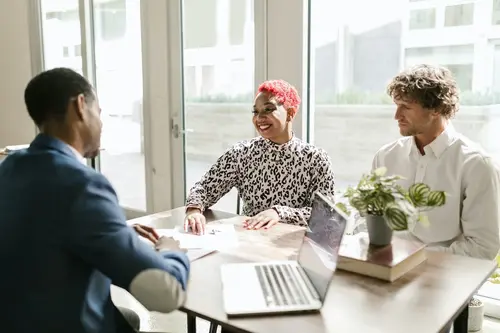
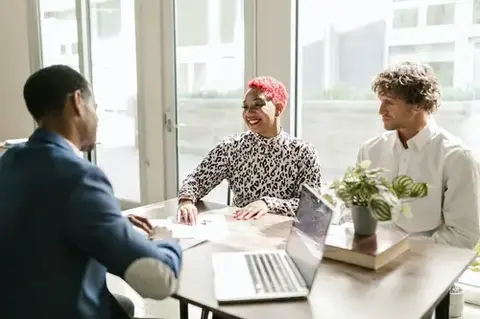
added overlaytext js

Changed region(s): [[0.375, 0.4514, 0.6562, 0.6207]]

diff --git a/chamber/index.html b/chamber/index.html
@@ -26,10 +26,11 @@
       <div id="content">
           <div class="hero">
             <picture>
-                <source media="(max-width: 500px)" srcset="/lesson06/images/wdd230-org-small.webp">
-                <source media="(max-width: 1000px)" srcset="/lesson06/images/wdd230-org-medium.webp">
-                <img src="/lesson06/images/wdd230-org-large.webp" alt="coworkers meeting" width="1500" height="1000">   
+                <source media="(max-width: 480px)" srcset="/lesson06/images/wdd230-org-small.webp">
+                <source media="(max-width: 800px)" srcset="/lesson06/images/wdd230-org-medium.webp">
+                <img src="/lesson06/images/wdd230-org-large.webp" alt="coworkers meeting" width="1200" height="800" class="responsive-image"> 
             </picture>
+            <div class="overlay-text">Large</div>
            </div>
         </div>
         <nav id="navbar"  class="navbar">
@@ -93,6 +94,7 @@
   <script src="..//scripts/hamburger.js"></script>
   <script src="..//scripts/darkmode.js"></script>
   <script src="..//scripts/windchill.js"></script>
+  <script src="..//scripts/overlaytext.js"></script>
 <footer>
     <p>Delilia Werner</p>
     <p>This is a project for WDD230 Frontend Web Development</p>

diff --git a/scripts/overlaytext.js b/scripts/overlaytext.js
@@ -1,0 +1,15 @@
+const overlayText = document.querySelector('.overlay-text');
+        const image = document.querySelector('.responsive-image');
+
+        function updateOverlayText() {
+            const width = window.innerWidth;
+            if (width <= 480) {
+                overlayText.textContent = 'Small';
+            } else if (width <= 800) {
+                overlayText.textContent = 'Medium';
+            } else {
+                overlayText.textContent = 'Large';
+            }
+        }
+        window.addEventListener('resize', updateOverlayText);
+        updateOverlayText(); // Set initial text
